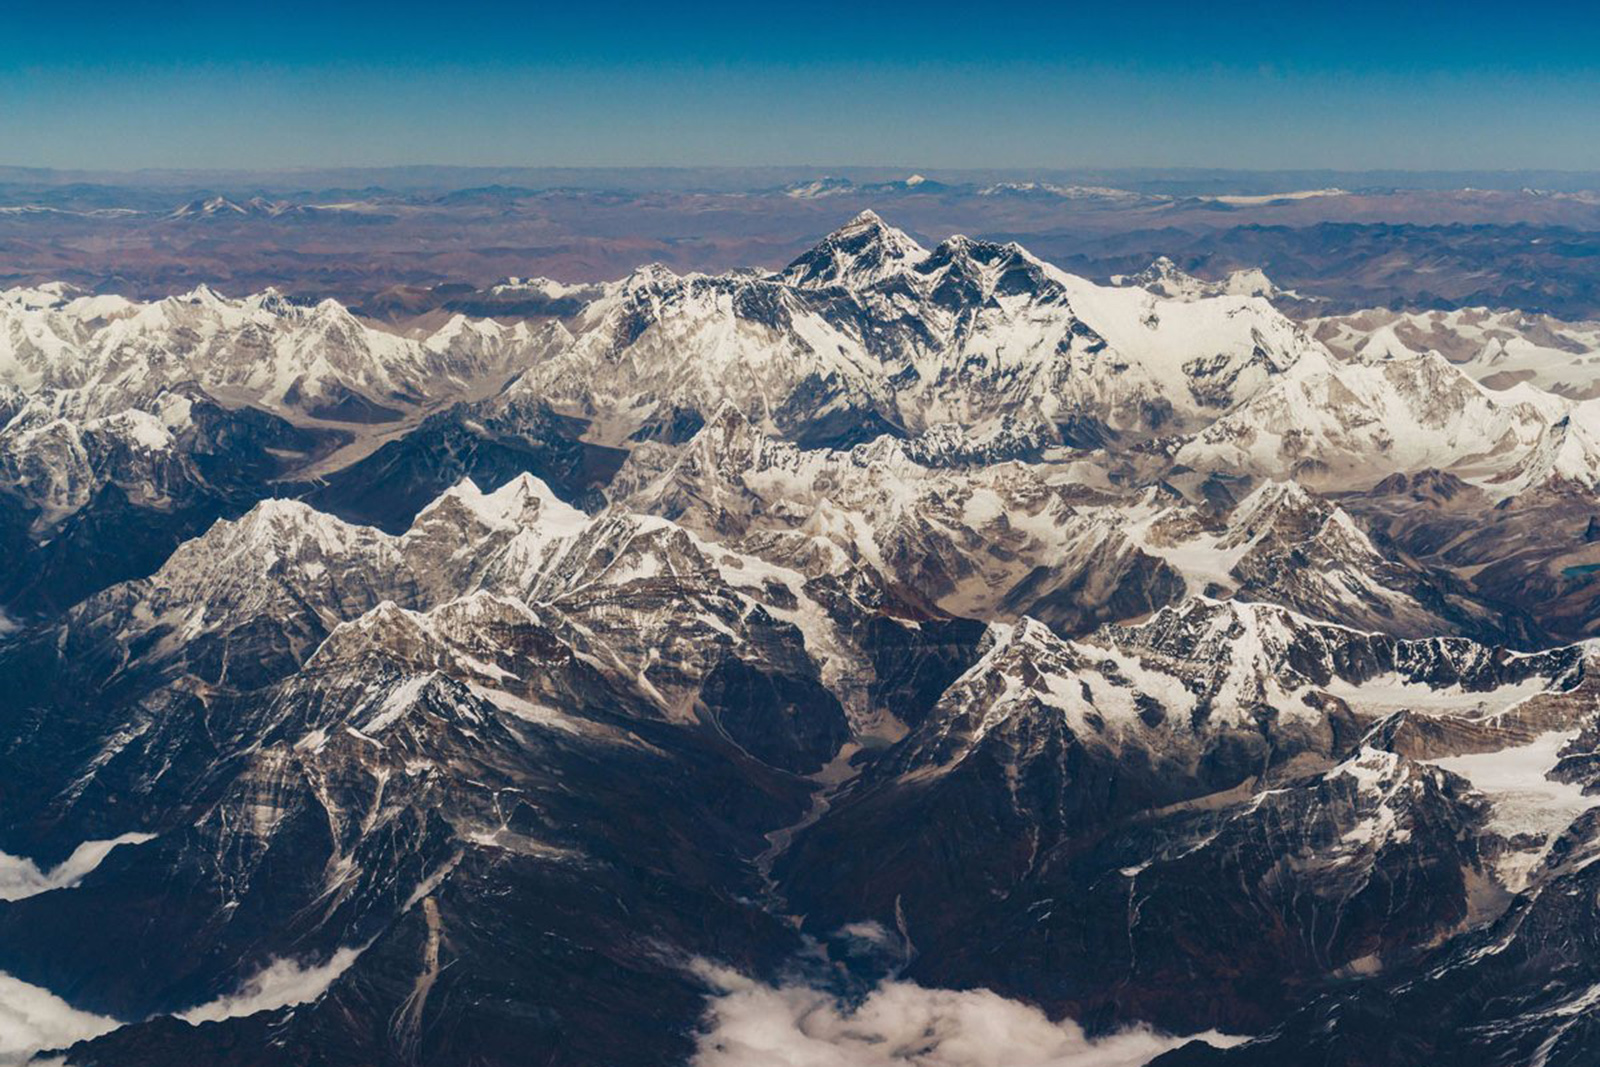
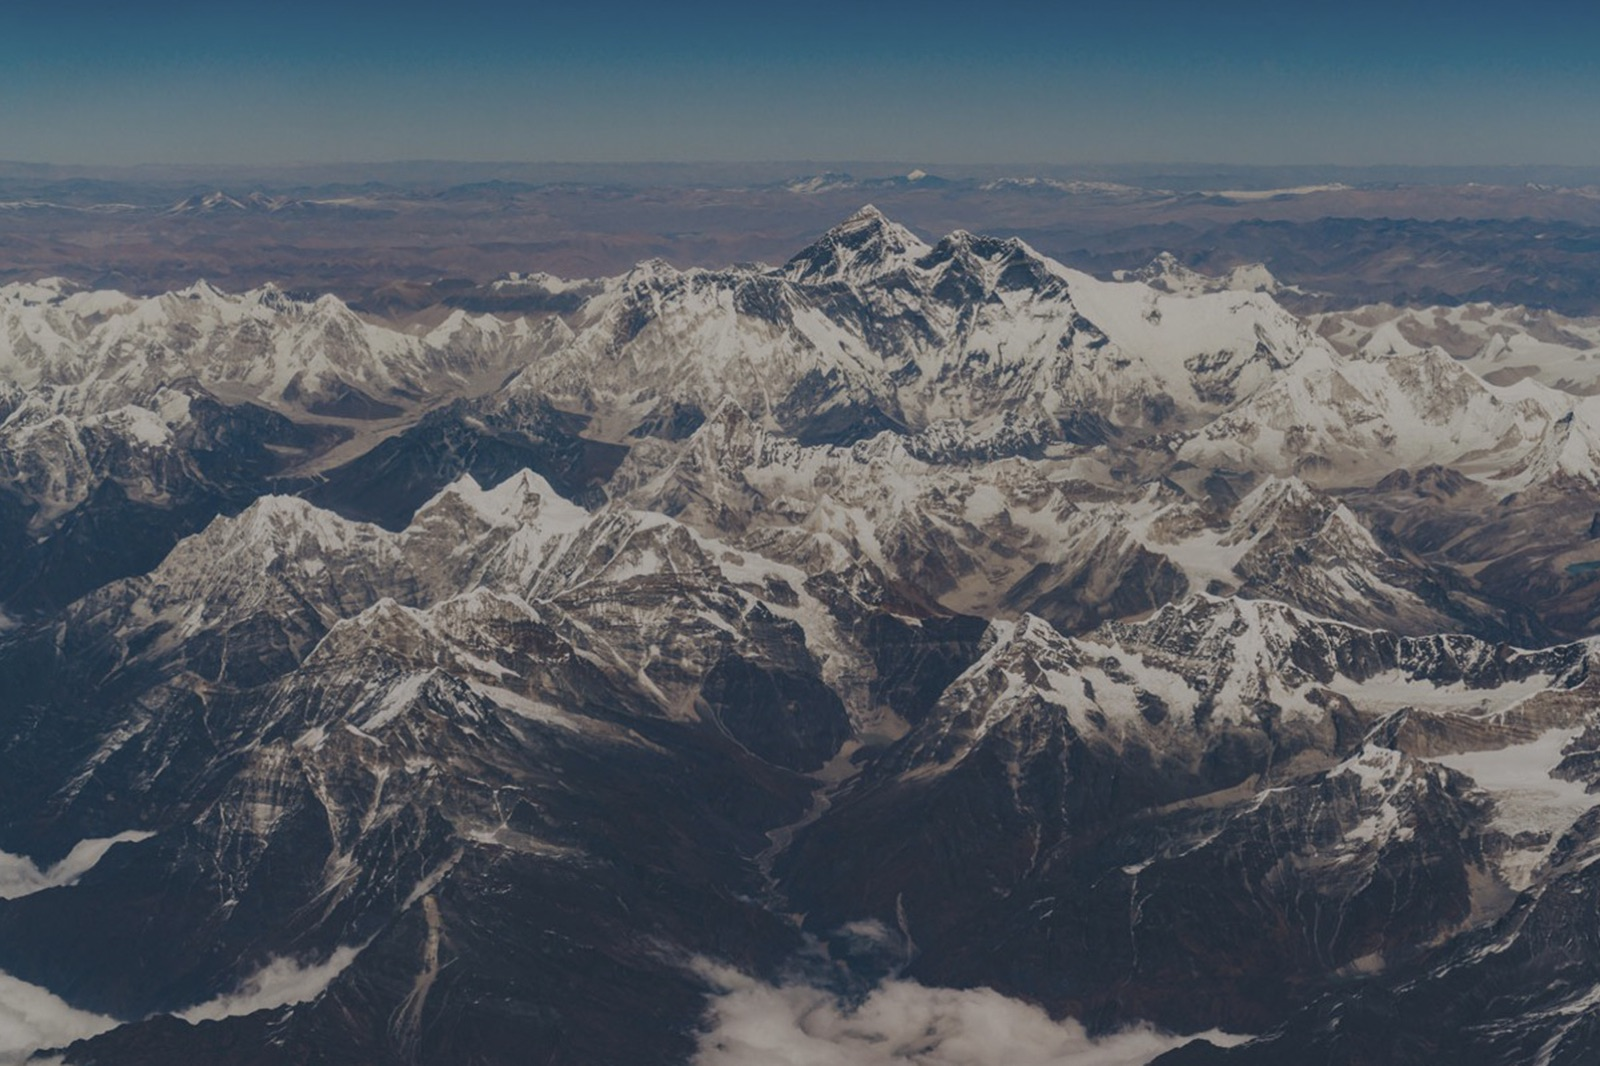
Compress images

diff --git a/index.html b/index.html
@@ -133,7 +133,7 @@
 					<h2>让我们接着看几个例子</h2>
 				</section>
 				<section>
-					<section data-background="css/image/6.png">
+					<section data-background="css/image/6.jpg">
 						<h1>Africa</h1>
 					</section>
 					<section>
@@ -142,7 +142,7 @@
 					</section>
 				</section>
 				<section>
-					<section data-background="css/image/7.png">
+					<section data-background="css/image/7.jpg">
 						<h1>太湖</h1>
 					</section>
 					<section>
@@ -174,7 +174,7 @@
 					</section>
 				</section>
 				<section>
-					<section data-background="css/image/9.png">
+					<section data-background="css/image/9.jpg">
 						<h2>中国改革开放初期的具体情况</h2>
 					</section>
 				</section>
